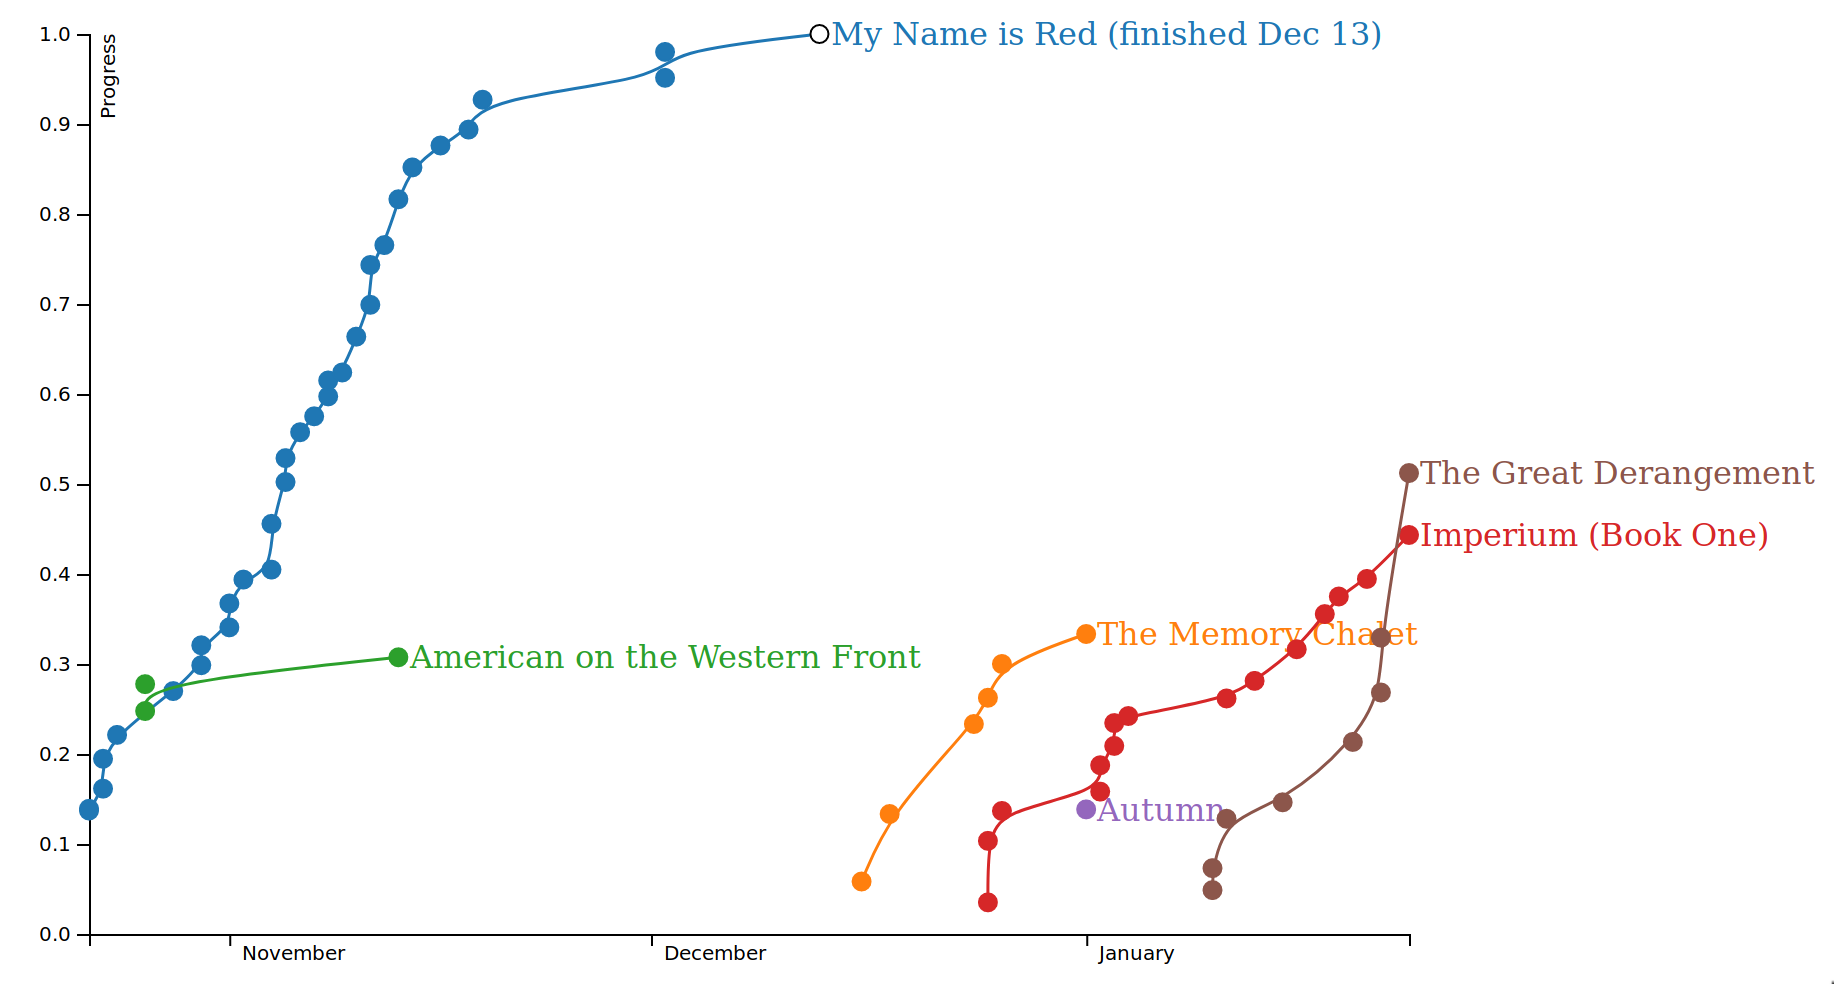
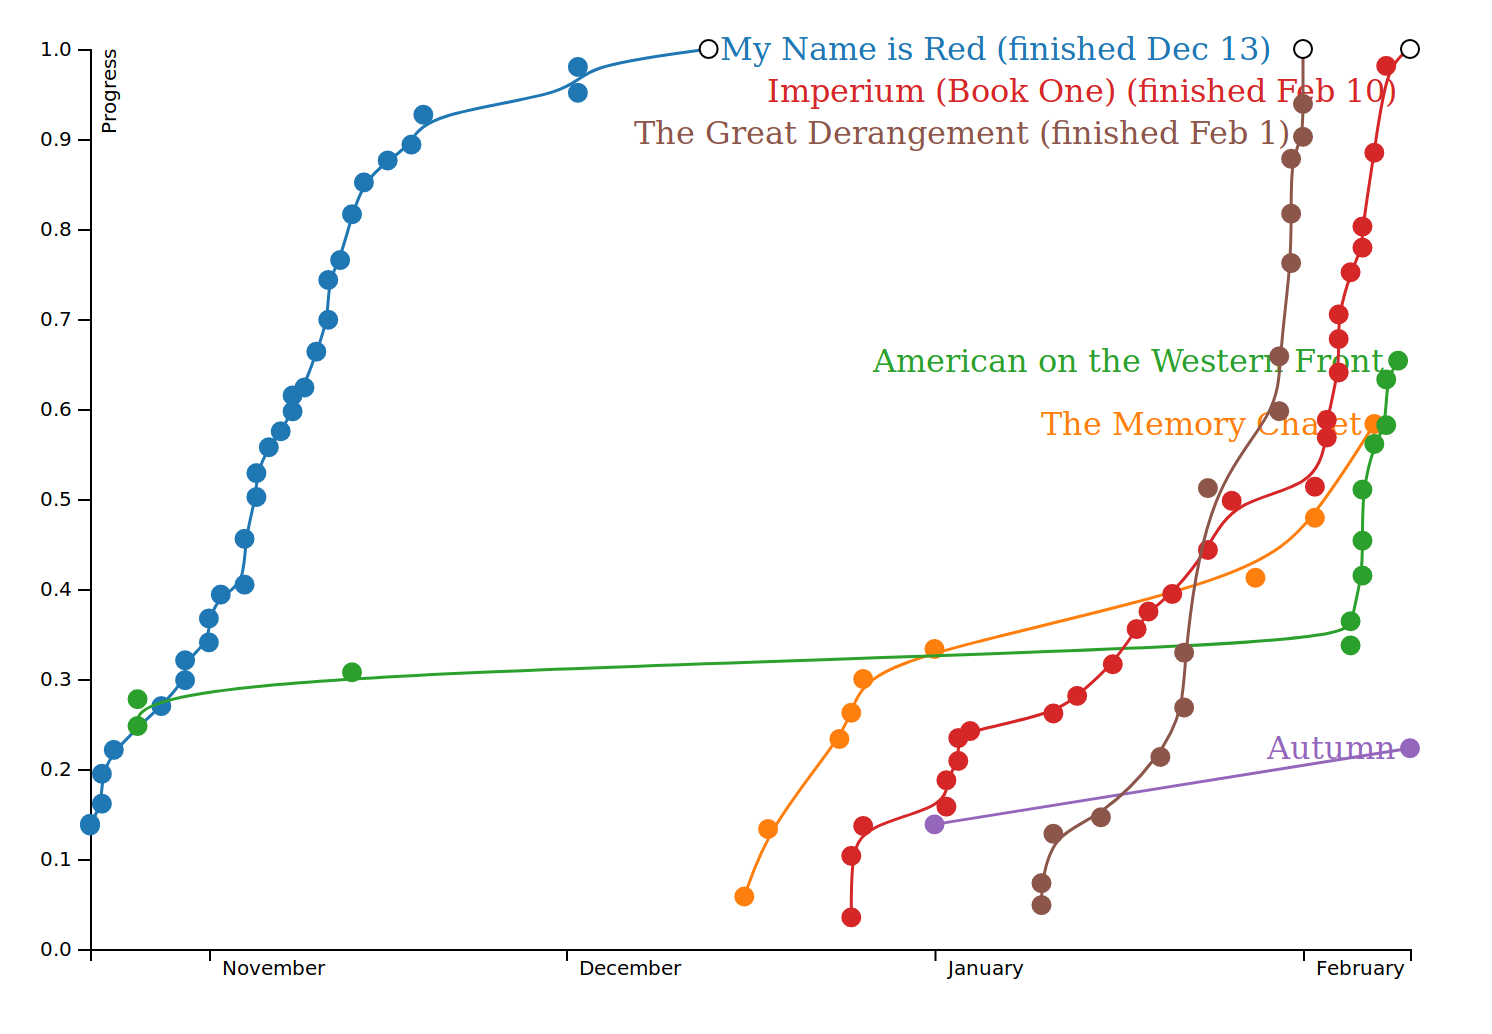
Adjust labels to prevent overflow and overlap

diff --git a/readtracker-chart.js b/readtracker-chart.js
@@ -118,7 +118,6 @@ function showChart(selector, text) {
         return label; 
       })
       .each(function() {
-        console.log(this.textContent);
         // get original translate values and width values
         transform = d3.select(this).attr('transform');
         translate = transform.substring(transform.indexOf("(")+1, transform.indexOf(")")).split(",");
@@ -127,12 +126,9 @@ function showChart(selector, text) {
 
         // determine whether the text extends beyond the svg width
         edge = translate[0] + bbox.width;
-        console.log('edge: ' + translate[0] + '+' + bbox.width + '=' + edge)
-
         var xoffset = 0;
         if (edge > width) {
-          xoffset = edge - width;
-          console.log("'" + this.textContent + "' overruns by " + (edge - width));
+          xoffset = bbox.width + 12;
         };
 
         var finalbbox = {
@@ -141,27 +137,20 @@ function showChart(selector, text) {
           "width": bbox.width,
           "height": bbox.height
         }
-        console.log("finalbbox");
-        console.log(finalbbox)
 
         var yoffset = 0;
         // look for overlap with previously positioned texts
         bboxes.forEach(function(b){
           if (overlaps(b, finalbbox)) {
-            console.log('found overlap')
             yoffset = yoffset + b.height + 2;
-            console.log("adjusted yoffset: " + yoffset);
           }
-
         });
-
 
         // set transform to new x,y values
         d3.select(this).attr('transform', function(d){
           return "translate(" + (translate[0]-xoffset) + "," + (translate[1]+yoffset) + ")";
         })
         bboxes.push(finalbbox); // TODO sort by y
-        console.log(finalbbox);
       });
 
     book.selectAll(".point")
